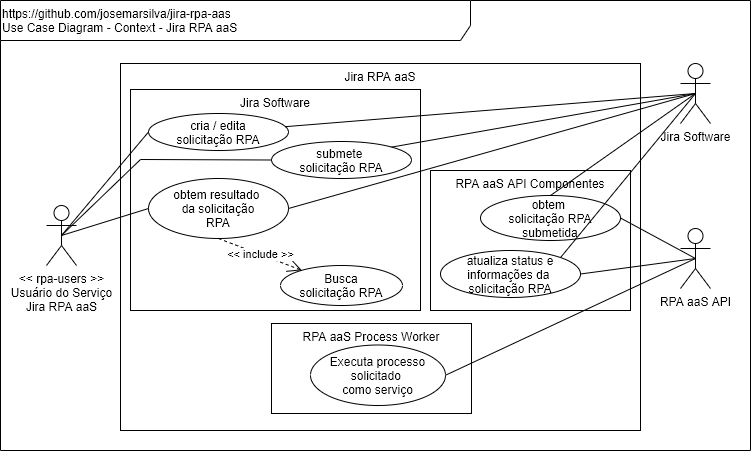
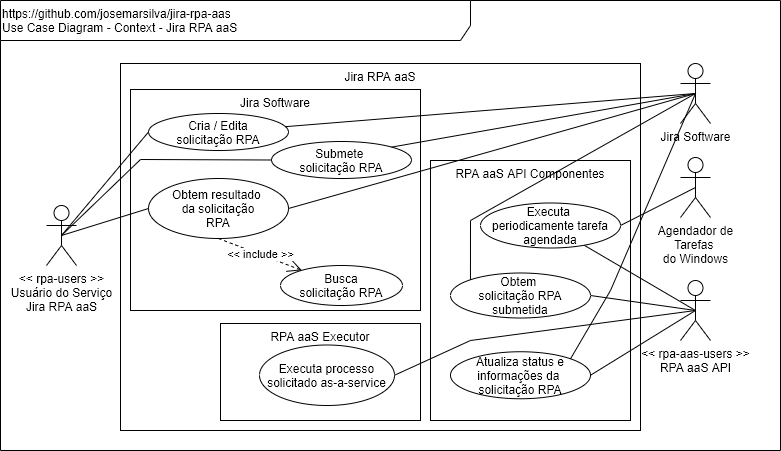
Doc

diff --git a/doc/README-Config-Jira.md b/doc/README-Config-Jira.md
@@ -277,10 +277,10 @@ Guia de Configuração da ferramenta Jira para o projeto [Jira RPA aaS](../READM
 * Na página de `Administração` na aba `Gerenciamento de Grupos` na aba `Grupos` clicar em `Adicionar Grupo`
     * Adicionar as seguintes configurações:
 
-| Nome do Grupo        | Membros do Grupo |
-| -------------------- | ---------------- |
-| `rpa-administrators` | `user`, `admin`  |
-| `rpa-users`          | `user`           |
+| Nome do Grupo        | Membros do Grupo                 |
+| -------------------- | -------------------------------- |
+| `rpa-users`          | `user`, `user-rpa-aas`, `admin`  |
+| `rpa-aas-users`      | `user-rpa-aas`, `admin`          |
 
 ---
 
@@ -312,13 +312,15 @@ Guia de Configuração da ferramenta Jira para o projeto [Jira RPA aaS](../READM
     * Clicar no botão de  `Publicar` o fluxo de trabalho
       * Escolher a opção `Não` para a pergunta `Salvar Cópia do Backup` e confirmar no botão `Publicar`
 
-| Transição   | Status de   | Status para | Grupo(s)             |
-| ----------- | ----------- | ----------- | -------------------- |
-| `Submeter`  | `EM EDIÇÃO` | `SUBMETIDO` | `rpa-users`          |
-| `Concluir`  | `SUBMETIDO` | `CONCLUÍDO` | `rpa-administrators` |
-| `Falhar`    | `SUBMETIDO` | `FALHA`     | `rpa-administrators` |
-| `Editar`    | `FALHA`     | `EM EDIÇÃO` | `rpa-users`          |
-| `Cancelar`  | _todos_     | `CANCELADO` | `rpa-users`          |
+| Transição   | Status de   | Status para | Grupo(s)                               |
+| ----------- | ----------- | ----------- | -------------------------------------- |
+| `Submeter`  | `EM EDIÇÃO` | `SUBMETIDO` | `rpa-users`                            |
+| `Concluir`  | `SUBMETIDO` | `CONCLUÍDO` | `rpa-aas-users`                        |
+| `Falhar`    | `SUBMETIDO` | `FALHA`     | `rpa-aas-users`                        |
+| `Editar`    | `FALHA`     | `EM EDIÇÃO` | `rpa-users`                            |
+| `Cancelar`  | _todos_     | `CANCELADO` | `rpa-users`                            |
+
+PS: a primeira transição de criação não precisa ser configurada
 
 ![Config-Jira-AdminProjetoConfigurarWorkflowTransition-01.png](printscreen/Config-Jira-AdminProjetoConfigurarWorkflowTransition-01.png)
 ![Config-Jira-AdminProjetoConfigurarWorkflowTransitionConditions-01.png](printscreen/Config-Jira-AdminProjetoConfigurarWorkflowTransitionConditions-01.png)

diff --git a/README.md b/README.md
@@ -103,6 +103,8 @@ O diagrama de Estados e Transições com **Contexto - Jira RPA aaS** do projeto,
 
 ### 3.7. Guia para Execução
 
+* n/a
+
 ### 3.7.1. Guia do Usuário
 
 * n/a
